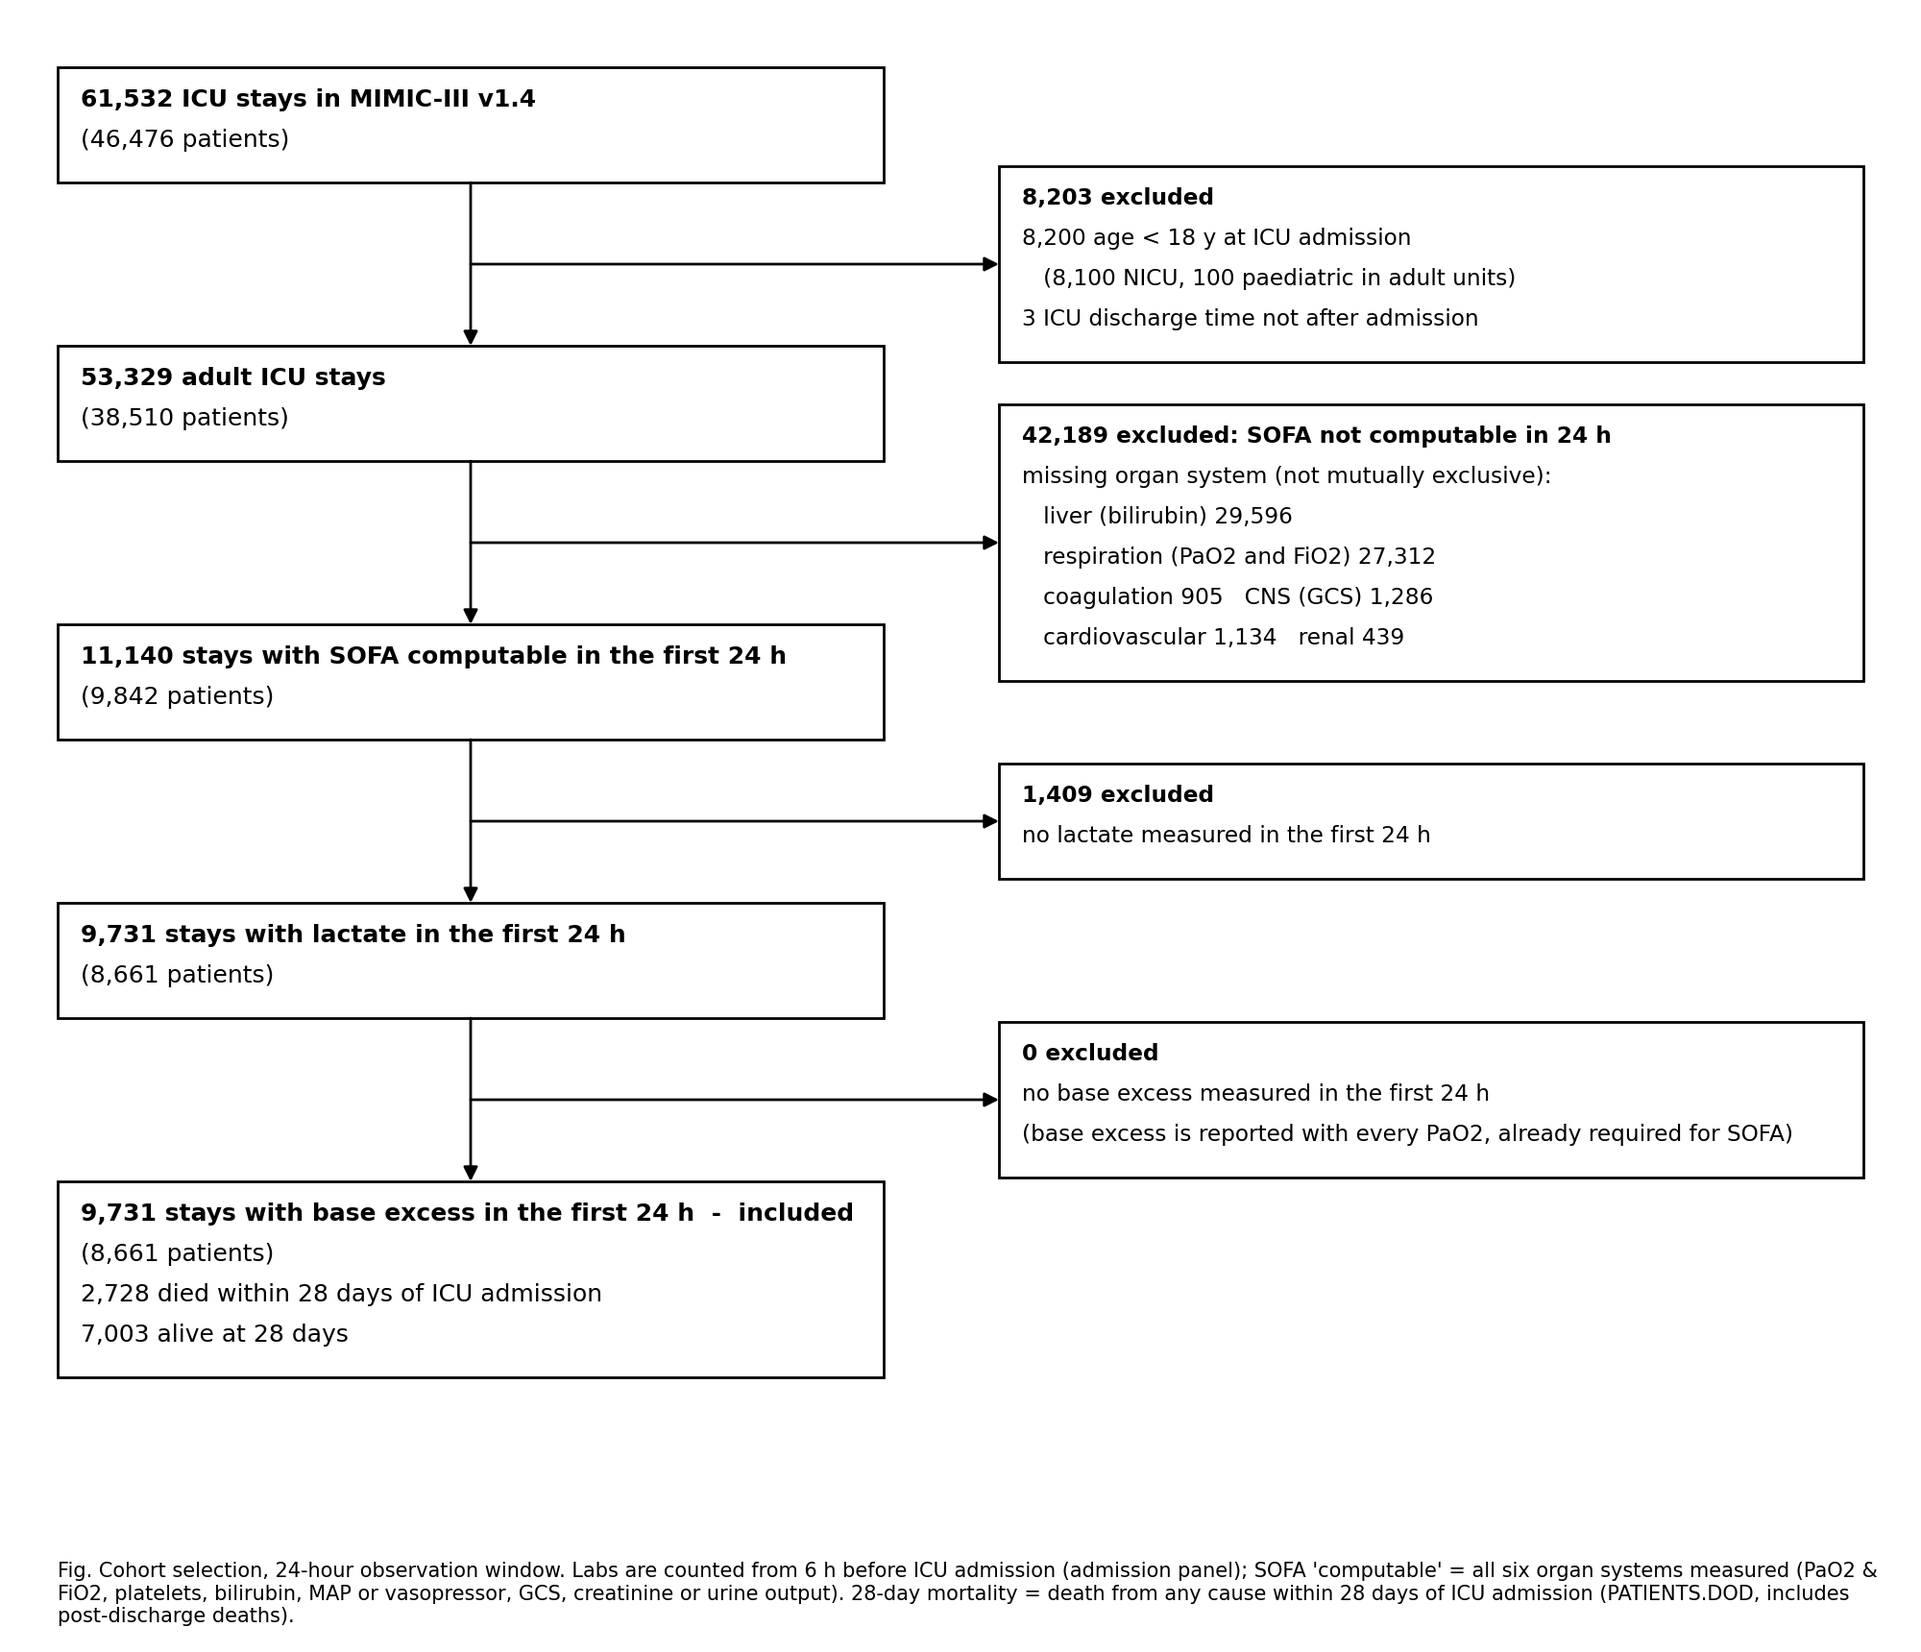
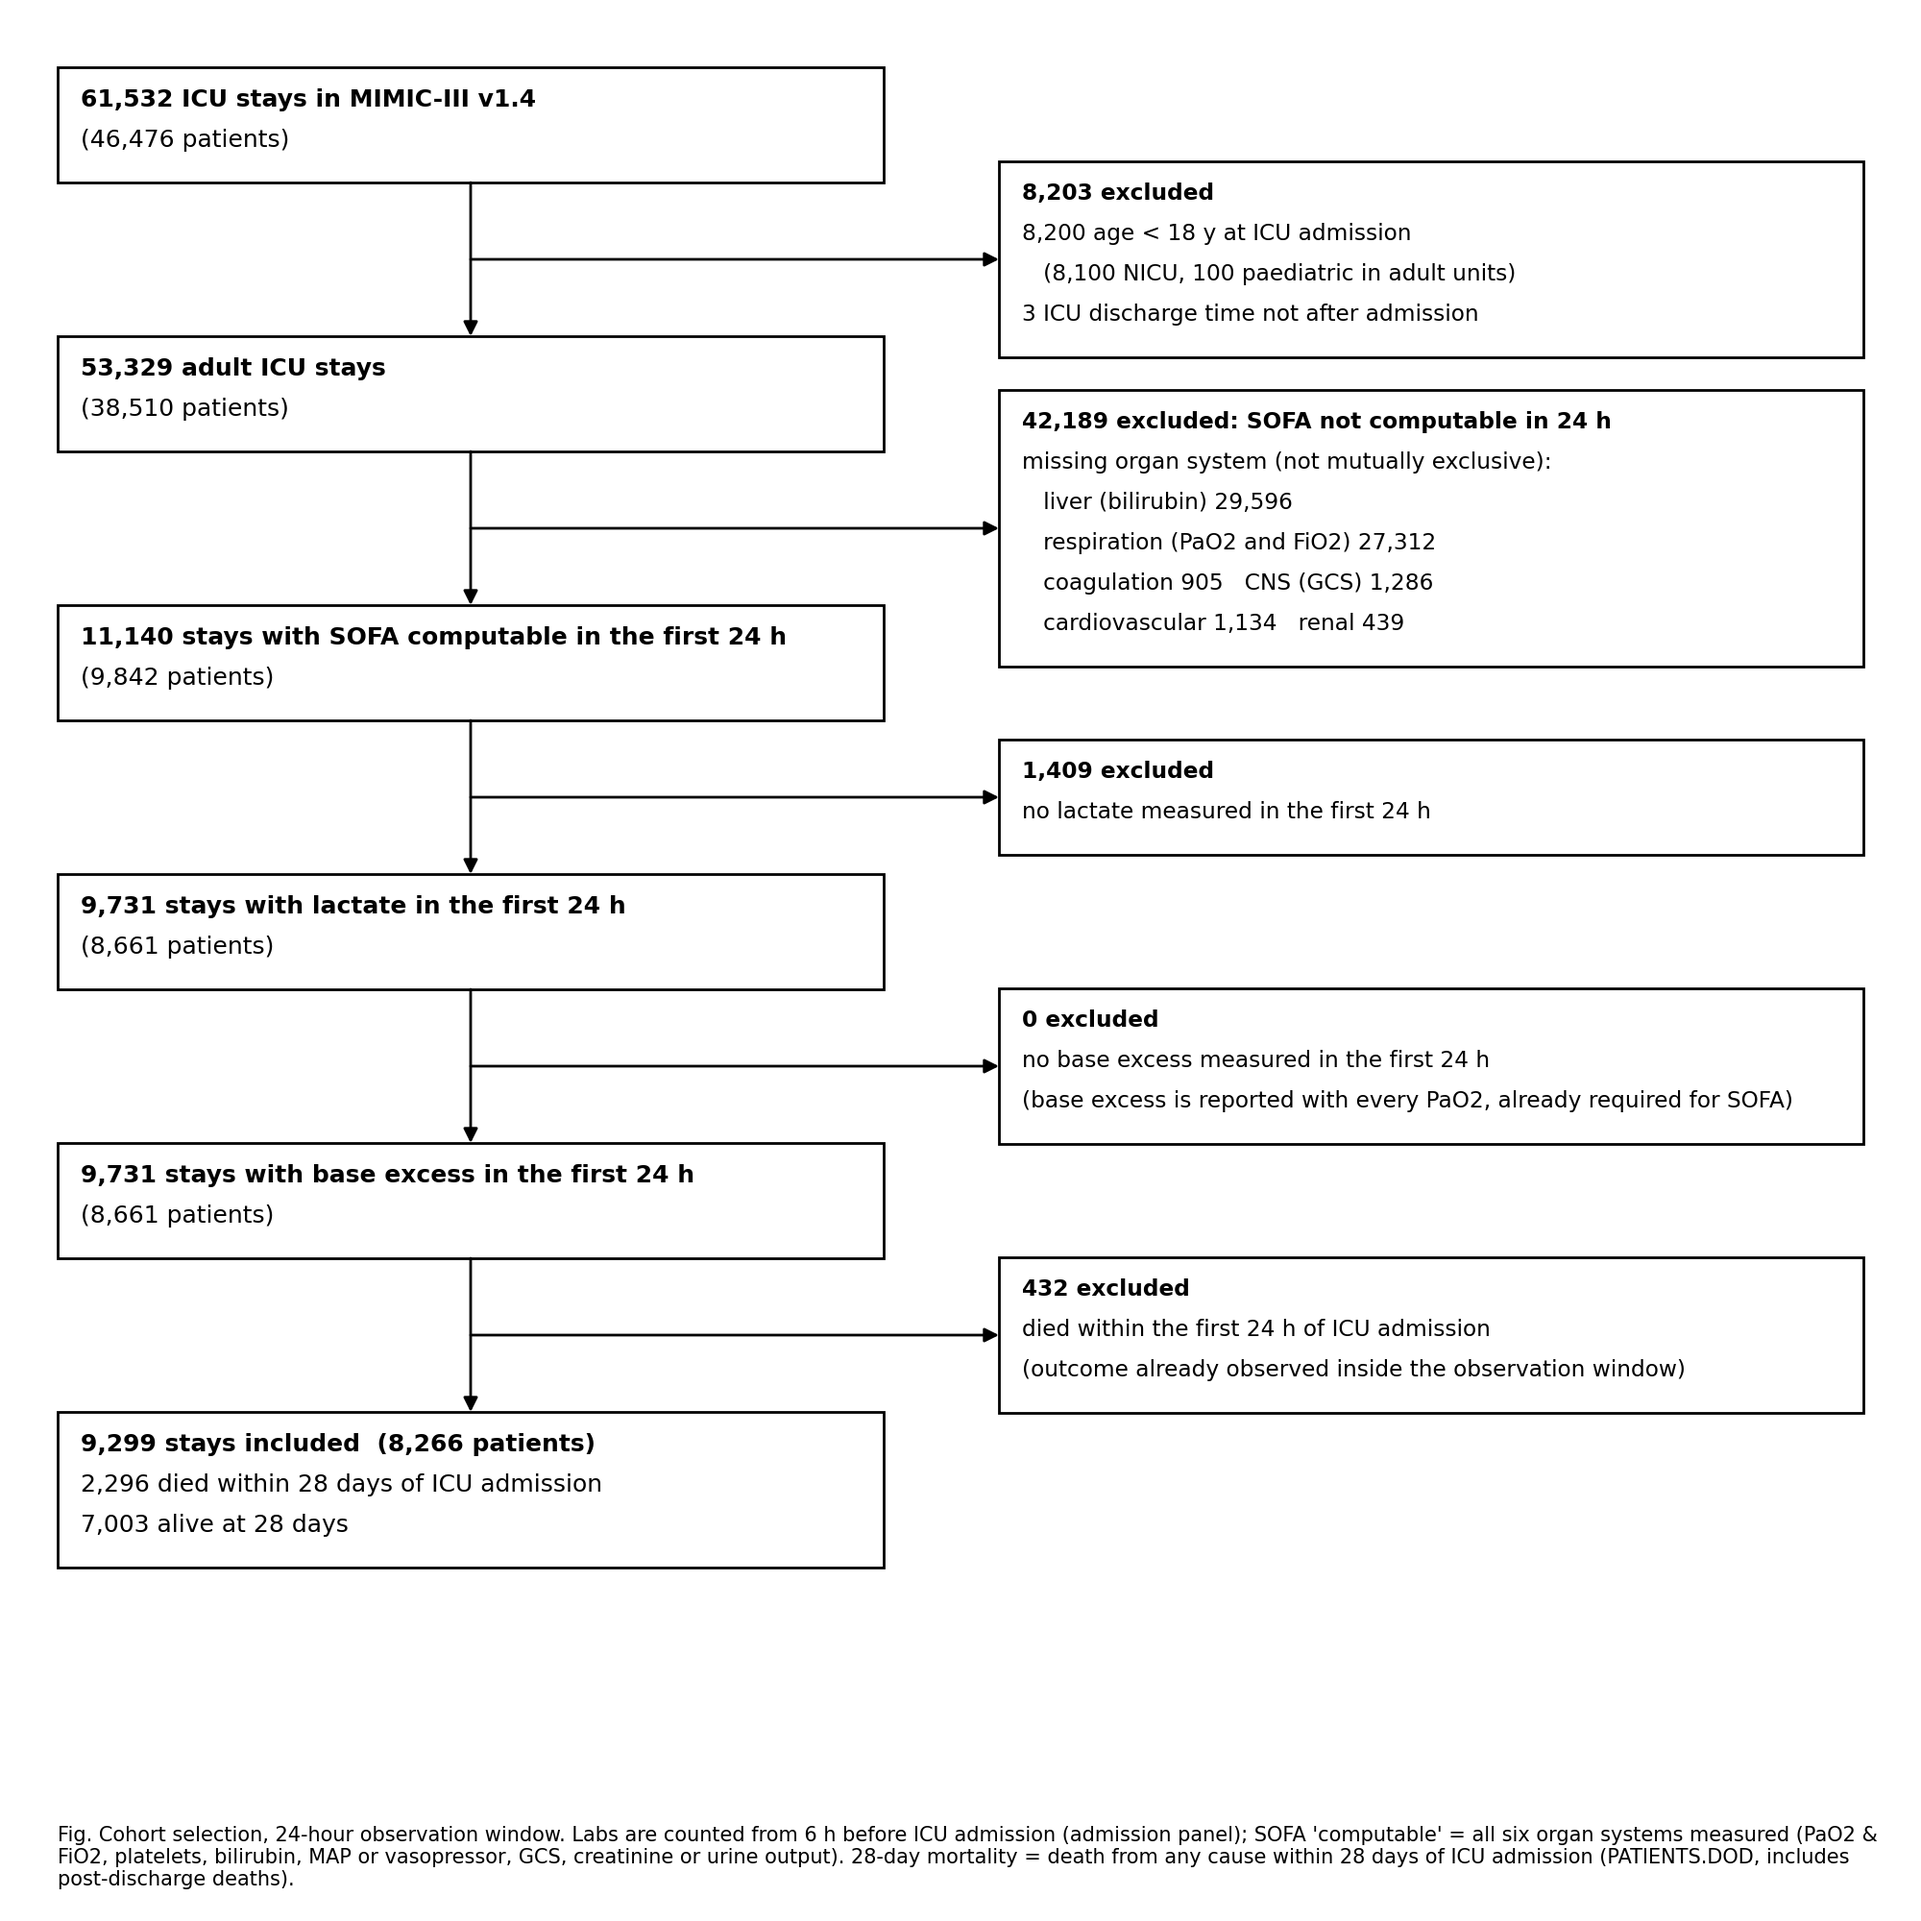
Flow chart: exclude stays that die inside the observation window
Claude-Session: https://claude.ai/code/session_01HeU3rVXtZxeXxp219tyGbe

diff --git a/scripts/07_cohort_flow_counts.py b/scripts/07_cohort_flow_counts.py
@@ -1,5 +1,5 @@
 """Cohort funnel for the flow chart: all ICU stays -> adults (>= 18 y) -> SOFA computable within W h -> lactate within
-W h -> base excess within W h, for W = 6 and 24.  Writes results/flowchart/flow_counts.json (drawn by 08_flowchart.py).
+W h -> base excess within W h -> not died within the first W h, for W = 6 and 24.  Writes results/flowchart/flow_counts.json (drawn by 08_flowchart.py).
 
 SOFA "computable" = all six organ systems have at least one measurement in the window: PaO2 & FiO2, platelets,
 bilirubin, MAP or a vasopressor, GCS, creatinine or urine output. Labs are counted from 6 h before ICU admission.
@@ -22,7 +22,7 @@ H = pd.Timedelta(1, 'h')
 
 icu = pd.read_csv(RAW / 'ICUSTAYS.csv.gz', parse_dates=['INTIME', 'OUTTIME'])
 pat = pd.read_csv(RAW / 'PATIENTS.csv.gz', usecols=['SUBJECT_ID', 'DOB', 'DOD'], parse_dates=['DOB', 'DOD'])
-adm = pd.read_csv(RAW / 'ADMISSIONS.csv.gz', usecols=['HADM_ID', 'HOSPITAL_EXPIRE_FLAG'])
+adm = pd.read_csv(RAW / 'ADMISSIONS.csv.gz', usecols=['HADM_ID', 'HOSPITAL_EXPIRE_FLAG', 'DEATHTIME'], parse_dates=['DEATHTIME'])
 icu = icu.merge(pat, on='SUBJECT_ID').merge(adm, on='HADM_ID')
 icu['age'] = (icu.INTIME.dt.year - icu.DOB.dt.year) - ((icu.INTIME.dt.month * 100 + icu.INTIME.dt.day) < (icu.DOB.dt.month * 100 + icu.DOB.dt.day))
 F = {'all': {'stays': len(icu), 'patients': icu.SUBJECT_ID.nunique()}}
@@ -90,6 +90,9 @@ for W in [6, 24]:
     lact = stays_in(bg[bg.ITEMID == 50813], 'CHARTTIME', W, True)
     be = stays_in(bg[bg.ITEMID == 50802], 'CHARTTIME', W, True)
     s3 = sofa & lact; s4 = s3 & be
+    # outcome already observed inside the window: in-hospital death (exact DEATHTIME) within the first W h
+    died_in_window = set(st.ICUSTAY_ID[(st.DEATHTIME >= st.INTIME) & (st.DEATHTIME <= st.INTIME + W * H)])
+    s5 = s4 - died_in_window
     died = set(st.ICUSTAY_ID[st.HOSPITAL_EXPIRE_FLAG == 1])
     # 28-day all-cause mortality from ICU admission (PATIENTS.DOD; an out-of-hospital DOD is a date, so compare on days)
     d0 = st.INTIME.dt.floor('D')
@@ -98,7 +101,9 @@ for W in [6, 24]:
     F[f'W{W}'] = {'sofa': {'stays': len(sofa), 'patients': pts(sofa)}, 'excl_sofa': len(no_sofa), 'excl_sofa_missing_organ': missing,
                   'lactate': {'stays': len(s3), 'patients': pts(s3)}, 'excl_lactate': len(sofa - lact),
                   'be': {'stays': len(s4), 'patients': pts(s4)}, 'excl_be': len(s3 - be),
-                  'final_died': len(s4 & died), 'final_alive': len(s4 - died),
-                  'final_died_28d': len(s4 & died28), 'final_alive_28d': len(s4 - died28)}
+                  'excl_died_in_window': len(s4 & died_in_window),
+                  'final': {'stays': len(s5), 'patients': pts(s5)},
+                  'final_died': len(s5 & died), 'final_alive': len(s5 - died),
+                  'final_died_28d': len(s5 & died28), 'final_alive_28d': len(s5 - died28)}
 json.dump(F, open(OUT / 'flow_counts.json', 'w'), indent=1)
 print(json.dumps(F, indent=1))

diff --git a/scripts/08_flowchart.py b/scripts/08_flowchart.py
@@ -1,6 +1,7 @@
 """Draw the cohort flow chart (CONSORT style) from the counts in results/flowchart/flow_counts.json.
 
-Steps: all ICU stays -> adults (>= 18 y) -> SOFA computable within W h -> lactate within W h -> base excess within W h,
+Steps: all ICU stays -> adults (>= 18 y) -> SOFA computable within W h -> lactate within W h -> base excess within W h
+-> not died within the first W h,
 for W = 6 and W = 24 (one figure each, plus a side-by-side figure). Coordinates are in inches.
 """
 import json
@@ -17,9 +18,9 @@ F = json.load(open(OUT / 'flow_counts.json'))
 plt.rcParams['font.family'] = 'DejaVu Sans'
 
 FS, LH, PAD = 9.0, 0.21, 0.09          # font size (pt), line height / padding (inches)
-WIDTH, HEIGHT = 10.0, 8.6
+WIDTH, HEIGHT = 10.0, 10.0
 LX, LW, RX, RW = 0.3, 4.3, 5.2, 4.5    # main column / exclusion column (x, width)
-GAP = 0.85                             # vertical space between main boxes (holds the arrow)
+GAP = 0.8                             # vertical space between main boxes (holds the arrow)
 
 
 def box(ax, x, y_top, w, lines, fs=FS):
@@ -43,8 +44,8 @@ def draw(ax, W, title=None):
         [f"{F['adult']['stays']:,} adult ICU stays", f"({F['adult']['patients']:,} patients)"],
         [f"{d['sofa']['stays']:,} stays with SOFA computable in the first {W} h", f"({d['sofa']['patients']:,} patients)"],
         [f"{d['lactate']['stays']:,} stays with lactate in the first {W} h", f"({d['lactate']['patients']:,} patients)"],
-        [f"{d['be']['stays']:,} stays with base excess in the first {W} h  -  included",
-         f"({d['be']['patients']:,} patients)",
+        [f"{d['be']['stays']:,} stays with base excess in the first {W} h", f"({d['be']['patients']:,} patients)"],
+        [f"{d['final']['stays']:,} stays included  ({d['final']['patients']:,} patients)",
          f"{d['final_died_28d']:,} died within 28 days of ICU admission",
          f"{d['final_alive_28d']:,} alive at 28 days"],
     ]
@@ -62,6 +63,8 @@ def draw(ax, W, title=None):
         [f"{d['excl_lactate']:,} excluded", f"no lactate measured in the first {W} h"],
         [f"{d['excl_be']:,} excluded", f"no base excess measured in the first {W} h",
          "(base excess is reported with every PaO2, already required for SOFA)"],
+        [f"{d['excl_died_in_window']:,} excluded", f"died within the first {W} h of ICU admission",
+         "(outcome already observed inside the observation window)"],
     ]
     y = HEIGHT - 0.35
     for i, lines in enumerate(main):

diff --git a/README.md b/README.md
@@ -165,6 +165,6 @@ RandomForest tuning is CPU-bound (16 cores, ~5 min per trial on 3.5 M rows). Pea
 
 `07_cohort_flow_counts.py` + `08_flowchart.py` produce CONSORT-style flow charts (`results/flowchart/`) for a cohort
 defined by: adults (>= 18 y at ICU admission) -> SOFA computable in the first W h (all six organ systems measured) ->
-lactate in the first W h -> base excess in the first W h, with the final box split by 28-day all-cause mortality.
-W = 24 h: 61,532 ICU stays -> 53,329 adult -> 11,140 SOFA -> 9,731 lactate -> 9,731 base excess
-(2,728 died within 28 days, 28.0 %). W = 6 h: 5,904 included (1,678 died, 28.4 %).
+lactate in the first W h -> base excess in the first W h -> not died within the first W h, with the final box split by
+28-day all-cause mortality. W = 24 h: 61,532 ICU stays -> 53,329 adult -> 11,140 SOFA -> 9,731 lactate -> 9,731 base
+excess -> 9,299 included (2,296 died within 28 days, 24.7 %). W = 6 h: 5,858 included (1,632 died, 27.9 %).
